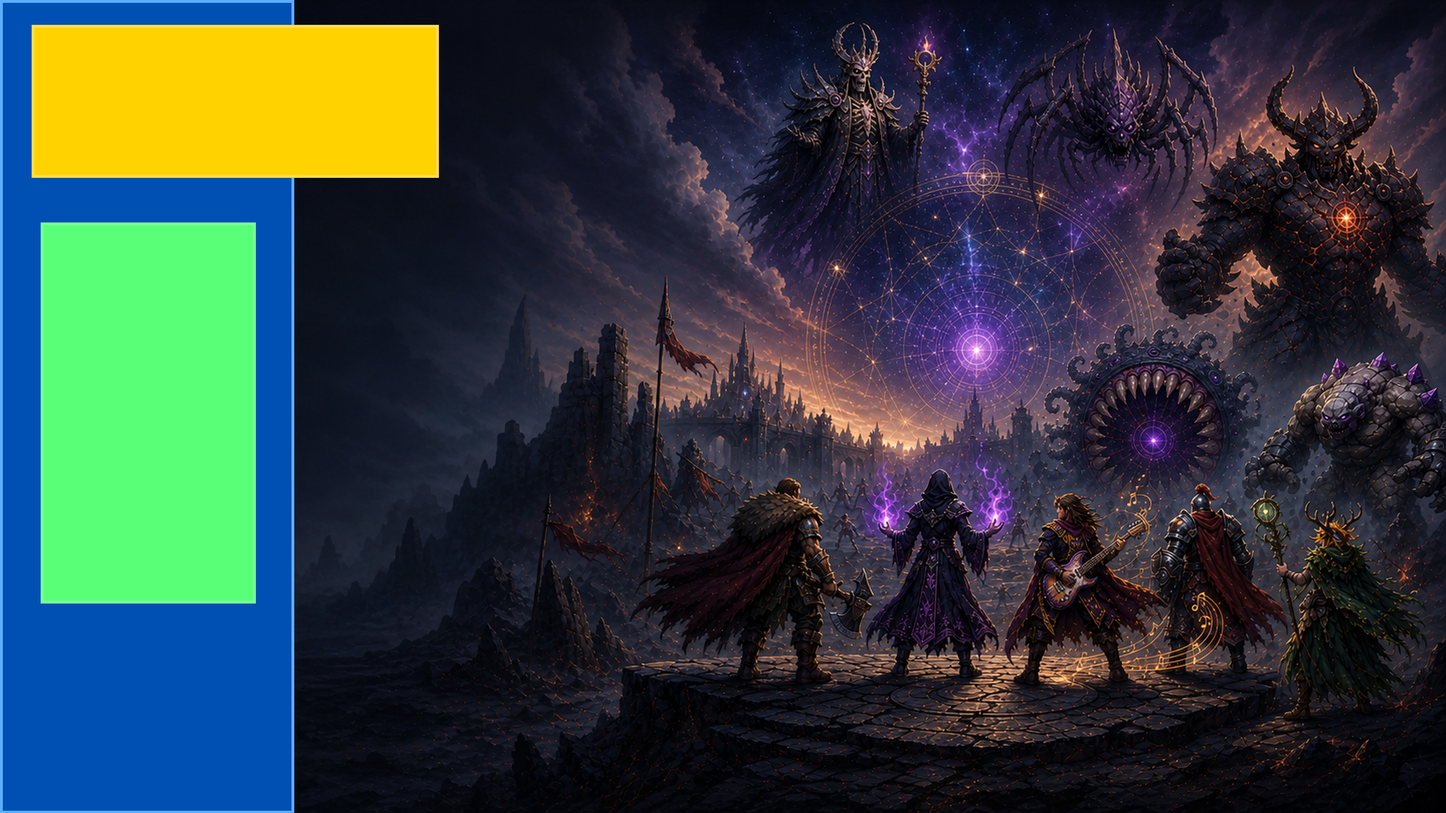
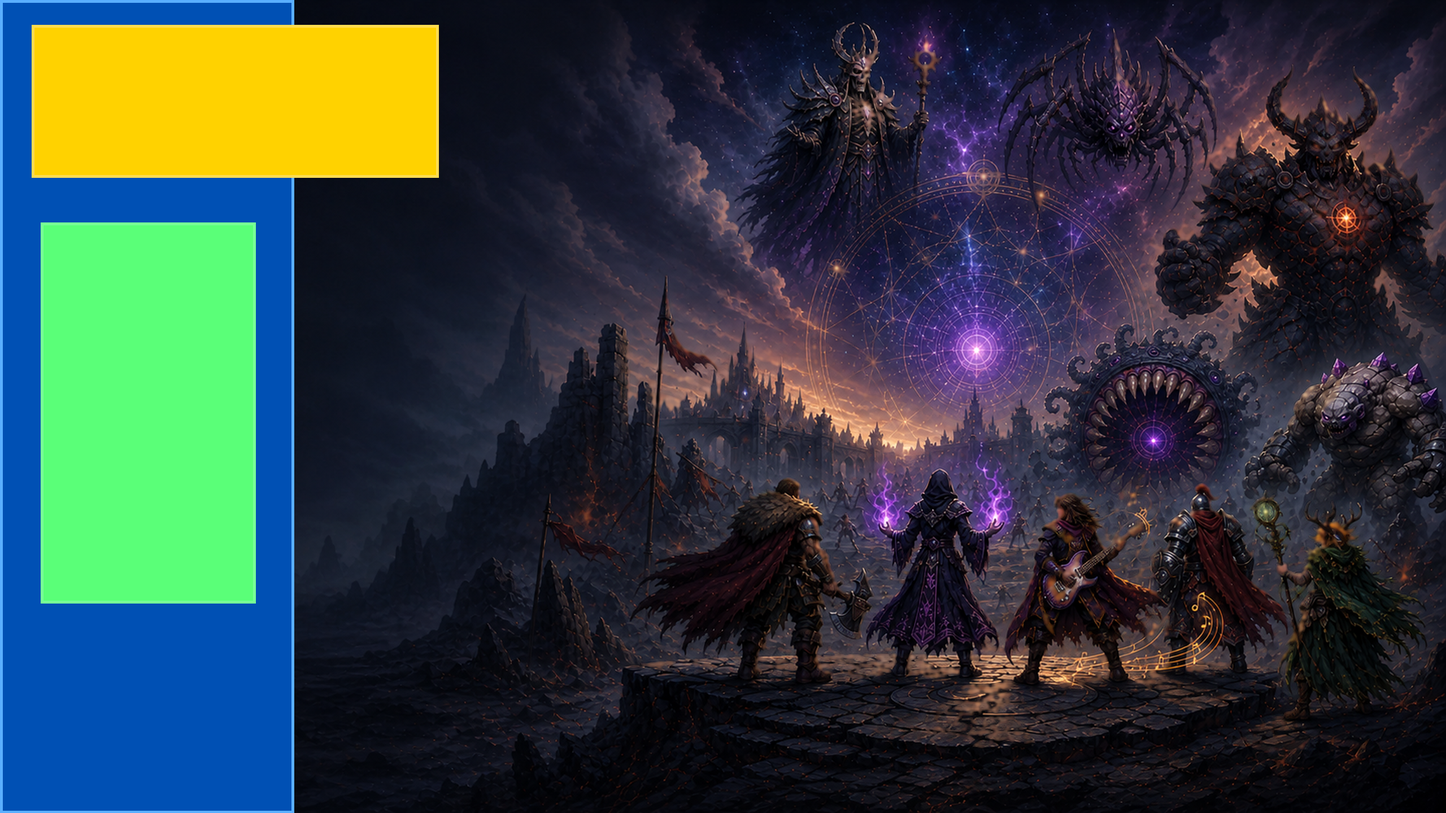
SCRUM-1001 remove orange background noise

diff --git a/docs/design/mockups/main_menu_openai_clean_background/spec.md b/docs/design/mockups/main_menu_openai_clean_background/spec.md
@@ -15,7 +15,8 @@ Generated with: OpenAI Images built-in `image_gen` via explicit user `OpenAI Ima
 User requested a new main-menu picture made with OpenAI image generation, using
 current character/monster/boss sprites as references. The image must be clean,
 less grainy, cartoon-realistic and beautiful. Follow-up feedback requested
-removing grain and adding texture smoothing.
+removing grain, adding texture smoothing, smoothing ragged linework and removing
+orange spark/ember dot noise.
 
 ## Runtime Asset Contract
 
@@ -26,11 +27,14 @@ removing grain and adding texture smoothing.
 | First smoothed reference | `docs/design/references/main_menu_openai_clean_background/main_menu_openai_final_smooth.png` |
 | Smooth-lines OpenAI edit source | `docs/design/references/main_menu_openai_clean_background/main_menu_openai_smooth_lines_source.png` |
 | Final smooth-lines reference | `docs/design/references/main_menu_openai_clean_background/main_menu_openai_final_smooth_lines.png` |
+| Final no-orange-noise reference | `docs/design/references/main_menu_openai_clean_background/main_menu_openai_final_no_orange_noise.png` |
 | Sprite reference sheet | `docs/design/references/main_menu_openai_clean_background/current_sprite_reference_contact_sheet.png` |
 | Previous runtime backup | `docs/design/backups/main_menu_openai_clean_background/main_menu_epic_battle_v3_pre_scrum1001.png` |
 | Safe-zone overlay | `docs/design/previews/main_menu_openai_clean_background_safe_zones.png` |
 | Smoothing comparison | `docs/design/previews/main_menu_openai_smoothing_comparison.png` |
 | Smooth-lines comparison | `docs/design/previews/main_menu_openai_smooth_lines_comparison.png` |
+| Orange-noise mask | `docs/design/previews/main_menu_openai_orange_noise_mask.png` |
+| No-orange-noise comparison | `docs/design/previews/main_menu_openai_no_orange_noise_comparison.png` |
 
 ## Screen Elements
 
@@ -58,6 +62,7 @@ buttons, logos or panels. Runtime controls remain separate Godot nodes.
 | main_menu_openai_final_smooth | `docs/design/references/main_menu_openai_clean_background/main_menu_openai_final_smooth.png` | first denoised/smoothed source | 2560x1440 | RGB | n/a | safe zones preserved | edge-aware smoothing applied after first user feedback |
 | main_menu_openai_smooth_lines_source | `docs/design/references/main_menu_openai_clean_background/main_menu_openai_smooth_lines_source.png` | OpenAI edit source for smoother contours | 1672x941 | RGB | n/a | n/a | generated after follow-up feedback about ragged edges |
 | main_menu_openai_final_smooth_lines | `docs/design/references/main_menu_openai_clean_background/main_menu_openai_final_smooth_lines.png` | final smooth-lines runtime source | 2560x1440 | RGB | n/a | safe zones preserved | smoother clouds, silhouettes, platform edges and boss contours |
+| main_menu_openai_final_no_orange_noise | `docs/design/references/main_menu_openai_clean_background/main_menu_openai_final_no_orange_noise.png` | final no-orange-noise runtime source | 2560x1440 | RGB | n/a | safe zones preserved | small isolated orange/yellow ember/spark components removed |
 | main_menu_epic_battle_v3 | `assets/backgrounds/main_menu_epic_battle_v3.png` | live runtime background | 2560x1440 | RGB | n/a | safe zones preserved | keeps existing `MAIN_MENU_BACKGROUND` code path |
 
 ## Smoothing Pass
@@ -71,6 +76,15 @@ postprocess, tracked in `main_menu_openai_smooth_lines_comparison.png`. This
 revision specifically smooths uneven/ragged contours on clouds, ruins, capes,
 stone platform edges, boss armor and monster silhouettes while keeping the same
 main-menu composition and safe zones.
+
+## Orange Dot Cleanup
+
+The orange dots came from the generated background as ember/spark/lava-particle
+noise. The cleanup pass builds a warm orange/yellow candidate mask, keeps large
+connected golden linework such as portal circles and music curves, and replaces
+only small isolated components with a locally smoothed background. Evidence:
+`main_menu_openai_orange_noise_mask.png` and
+`main_menu_openai_no_orange_noise_comparison.png`.
 
 ## Responsive Rules
 
@@ -98,6 +112,7 @@ main-menu composition and safe zones.
 - [x] Runtime asset is 2560x1440 RGB PNG.
 - [x] Current character/monster/boss sprites were used in a reference sheet.
 - [x] Grain reduction and smoothing pass applied after user feedback.
+- [x] Orange spark/ember dot noise removed after follow-up feedback.
 - [x] No UI content overlaps frame decoration; this background has no UI frame.
 - [x] Main-menu title/actions safe zones remain free of key art.
 - [x] Godot smoke/UI verification completed.

diff --git a/docs/design/content_registry.md b/docs/design/content_registry.md
@@ -1122,7 +1122,7 @@ Contextual UI direction 2026-06-12 is superseded by SCRUM-147. SCRUM-418 confirm
 | --- | --- | --- | --- |
 | `arena_2k_combat` | Боевая Арена 2K | Generated by `scripts/main.gd` | Прямоугольная арена 2560x1440 с камерой zoom 1.12 |
 | `main_menu_epic_battle` | Эпичный бой стартового экрана | `build/qa/scrum418/removed_assets_backup/assets/backgrounds/main_menu_epic_battle.png` | Legacy фон главного меню, удален из runtime `assets/` SCRUM-418 и сохранен как QA backup вне shipping scope |
-| `main_menu_epic_battle_v3` | Сглаженный clean-art фон стартового экрана | `assets/backgrounds/main_menu_epic_battle_v3.png` | Active SCRUM-1001 фон главного меню: 2560x1440 OpenAI-generated clean cartoon-realistic D&D dark fantasy composition without baked UI, with left button-safe column, readable title-safe area, current sprite-inspired heroes/monsters/bosses, reduced grain and smooth-lines revision for less ragged contours |
+| `main_menu_epic_battle_v3` | Сглаженный clean-art фон стартового экрана | `assets/backgrounds/main_menu_epic_battle_v3.png` | Active SCRUM-1001 фон главного меню: 2560x1440 OpenAI-generated clean cartoon-realistic D&D dark fantasy composition without baked UI, with left button-safe column, readable title-safe area, current sprite-inspired heroes/monsters/bosses, reduced grain, smooth-lines revision for less ragged contours and extra orange ember/spark dot noise removed |
 | `ui_backdrop_system_cathedral` | System/Codex/Settings backdrop | `assets/backgrounds/ui/ui_backdrop_system_cathedral.png` | Active for `system`, `settings`, `codex`, `hero_select`, `weapon_select`, `pause_stats`, `meta_tree`, `campfire` |
 | `ui_backdrop_merchant_archive` | Shop backdrop | `assets/backgrounds/ui/ui_backdrop_merchant_archive.png` | Active for `shop` |
 | `ui_backdrop_arcane_lab` | Level-up/Magic/Meta backdrop | `assets/backgrounds/ui/ui_backdrop_arcane_lab.png` | Active for `event`, `upgrade`, `level_up`, `meta_progression` |

diff --git a/docs/tasks/codex_design_main_menu_openai_clean_background_task.md b/docs/tasks/codex_design_main_menu_openai_clean_background_task.md
@@ -44,7 +44,7 @@ Jira: SCRUM-1001
   `MainMenuTitleLabel` и шести runtime-кнопок.
 - Визуальный стиль: clean cartoon-realistic D&D/dark fantasy, current-sprite-inspired
   characters/monsters/bosses, reduced grain/noise, smoother lines and less ragged
-  contours.
+  contours, without extra orange spark/ember dot noise.
 - Есть spec/evidence under `docs/design/mockups/main_menu_openai_clean_background/`
   и preview under `docs/design/previews/`.
 - Godot smoke/UI checks run or blocker recorded.
@@ -65,6 +65,12 @@ Done 2026-07-09.
   edit текущей композиции + лёгкий anti-ragged postprocess. Финальный runtime
   source:
   `docs/design/references/main_menu_openai_clean_background/main_menu_openai_final_smooth_lines.png`.
+- После follow-up фидбека `убрать оранжевые точки / сделать без лишнего шума`
+  выполнена локальная cleanup-ревизия: мелкие isolated orange/yellow
+  ember/spark components удалены по цвету/размеру и заменены локально сглаженным
+  фоном; крупные golden portal/music linework сохранены. Финальный runtime
+  source:
+  `docs/design/references/main_menu_openai_clean_background/main_menu_openai_final_no_orange_noise.png`.
 - Старый runtime background сохранён:
   `docs/design/backups/main_menu_openai_clean_background/main_menu_epic_battle_v3_pre_scrum1001.png`.
 - Evidence/spec:
@@ -77,6 +83,9 @@ Done 2026-07-09.
   `docs/design/references/main_menu_openai_clean_background/current_sprite_reference_contact_sheet.png`.
 - Smooth-lines comparison:
   `docs/design/previews/main_menu_openai_smooth_lines_comparison.png`.
+- Orange-noise mask/comparison:
+  `docs/design/previews/main_menu_openai_orange_noise_mask.png`,
+  `docs/design/previews/main_menu_openai_no_orange_noise_comparison.png`.
 
 ## Проверки
 

diff --git a/docs/design/current_game_state.md b/docs/design/current_game_state.md
@@ -162,7 +162,10 @@ fantasy key art без baked UI, со спокойной левой колонк
 читаемой title-safe областью под `MainMenuTitleLabel`, героями/монстрами/боссами
 по референсам текущих runtime sprites, дополнительным grain-reduction pass и
 smooth-lines ревизией для более плавных контуров облаков, руин, платформы,
-плащей, боссов и monster silhouettes. Source/reference sheet/backup/preview/safe-zone
+плащей, боссов и monster silhouettes. SCRUM-1001 follow-up также удаляет
+лишние orange ember/spark dots, которые пришли из генерации как частицы/пепел:
+мелкие isolated компоненты заменены локально сглаженным фоном, а крупные golden
+portal/music линии сохранены. Source/reference sheet/backup/preview/safe-zone
 evidence задокументированы в
 `docs/design/mockups/main_menu_openai_clean_background/spec.md` (SCRUM-1001;
 explicit OpenAI Images override по прямому запросу пользователя). Предыдущий

diff --git a/docs/design/systems/visual_style_assets.md b/docs/design/systems/visual_style_assets.md
@@ -807,9 +807,11 @@ SCRUM-337 is the current full attack VFX art baseline. Six generated source shee
   The final runtime image uses a grain-reduction pass plus a smooth-lines
   revision to reduce ragged/uneven contours in the sky, clouds, ruins, stone
   platform, capes, boss armor and monster silhouettes while preserving
-  readability. It keeps a calm dark left column for the six runtime menu buttons
+  readability. A later SCRUM-1001 cleanup removes extra orange ember/spark dot
+  noise from the generated image while preserving large golden portal/music
+  linework. It keeps a calm dark left column for the six runtime menu buttons
   and a readable title-safe area, and contains no baked UI text/buttons/frames.
-  Source, sprite reference sheet, backup, preview, smoothing comparisons and
+  Source, sprite reference sheet, backup, preview, cleanup comparisons and
   safe-zone evidence are documented in
   `docs/design/mockups/main_menu_openai_clean_background/spec.md`. This task is
   an explicit OpenAI Images override by direct user request.

diff --git a/docs/design/systems/menus_ui.md b/docs/design/systems/menus_ui.md
@@ -260,7 +260,10 @@ Main menu uses `assets/backgrounds/main_menu_epic_battle_v3.png` through
 on current runtime character, monster, elite and boss sprite references. The
 final runtime PNG has a grain-reduction pass plus a smooth-lines revision that
 reduces ragged/uneven contours in clouds, stone, ruins, capes, boss armor and
-monster silhouettes while preserving hero/boss readability.
+monster silhouettes while preserving hero/boss readability. The latest
+SCRUM-1001 follow-up removes extra orange ember/spark dot noise by replacing
+small isolated warm components with locally smoothed background while preserving
+large golden portal/music linework.
 The calm left button-safe column and readable title-safe area are preserved, the
 asset is prepared for proportional cover-crop rather than one-axis stretching,
 and it contains no baked UI text/buttons/frames/logos. Source, reference sheet,
